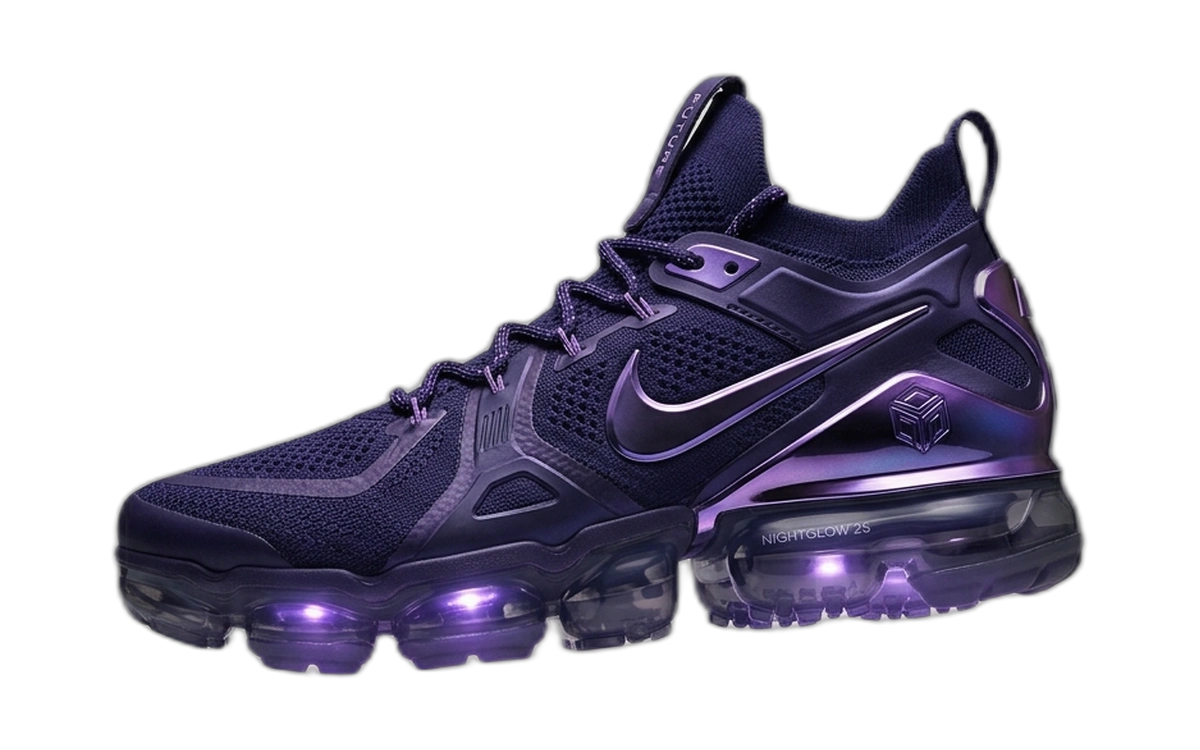
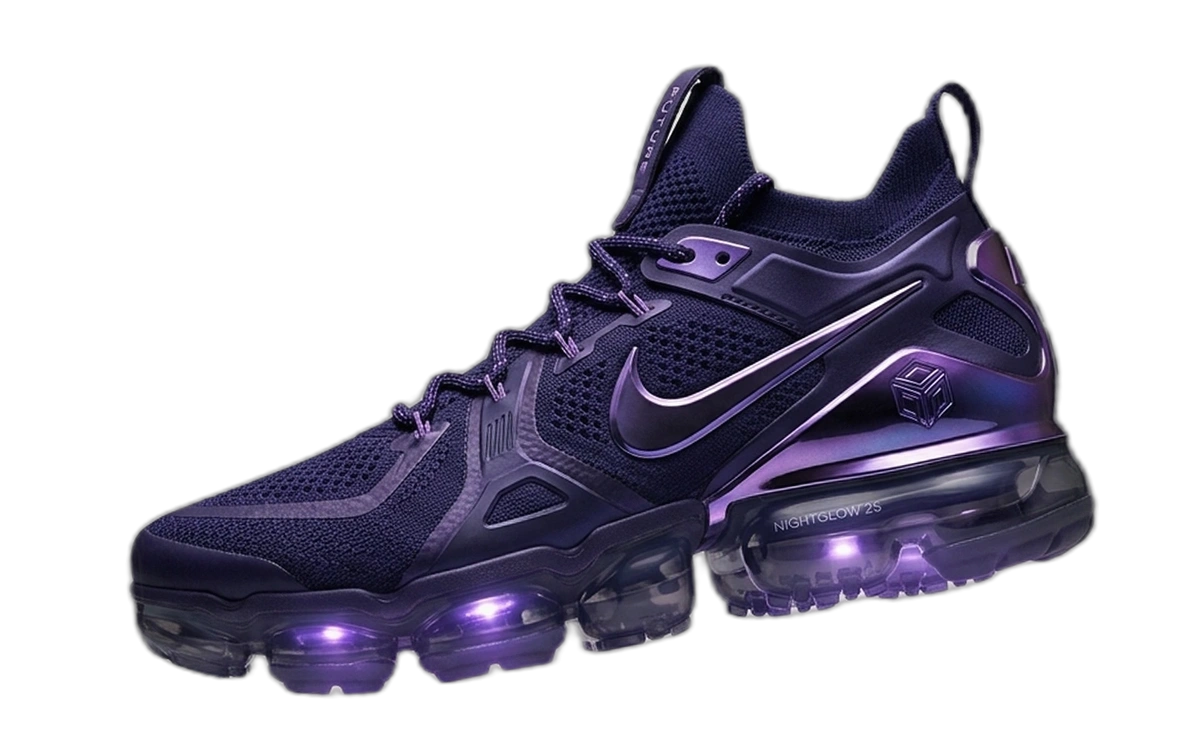
fix(sneakers): calibrate all 6 sneakers to identical tilt angle of air-future-iv in both slider and grid views

Changed region(s): [[0.0925, 0.092, 0.925, 0.9507], [0.4933, 0.6747, 0.5242, 0.7053]]

diff --git a/FashionStore/wwwroot/css/sneaker-vault.css b/FashionStore/wwwroot/css/sneaker-vault.css
@@ -283,6 +283,7 @@
     object-fit: contain;
     filter: drop-shadow(0 16px 20px rgba(0, 0, 0, 0.65));
     transition: transform 0.35s var(--sv-bounce);
+    transform: rotate(-15deg);
     animation: svLevitate 4.5s ease-in-out infinite alternate;
     pointer-events: none;
 }
@@ -294,13 +295,15 @@
 .sv-grid-item:nth-child(6) .sv-item-img { animation-delay: -3.1s; }
 
 .sv-grid-item:hover .sv-item-img {
-    transform: scale(1.08) rotate(-2deg);
+    transform: scale(1.1) rotate(-15deg);
 }
 
 .sv-item-shadow {
     position: absolute;
     bottom: 8px;
-    width: 60%;
+    left: 50%;
+    transform: translateX(-50%) rotate(-10deg);
+    width: 58%;
     height: 12px;
     background: radial-gradient(ellipse at center, rgba(0, 0, 0, 0.7) 0%, rgba(0, 0, 0, 0) 70%);
     border-radius: 50%;
@@ -309,7 +312,7 @@
 }
 
 .sv-grid-item:hover .sv-item-shadow {
-    transform: scale(0.85);
+    transform: translateX(-50%) rotate(-10deg) scale(0.85);
     opacity: 0.5;
 }
 
@@ -636,10 +639,10 @@
    ========================================================================== */
 @keyframes svLevitate {
     0% {
-        transform: translateY(0);
+        transform: translateY(0) rotate(-15deg);
     }
     100% {
-        transform: translateY(-8px);
+        transform: translateY(-8px) rotate(-15deg);
     }
 }
 
